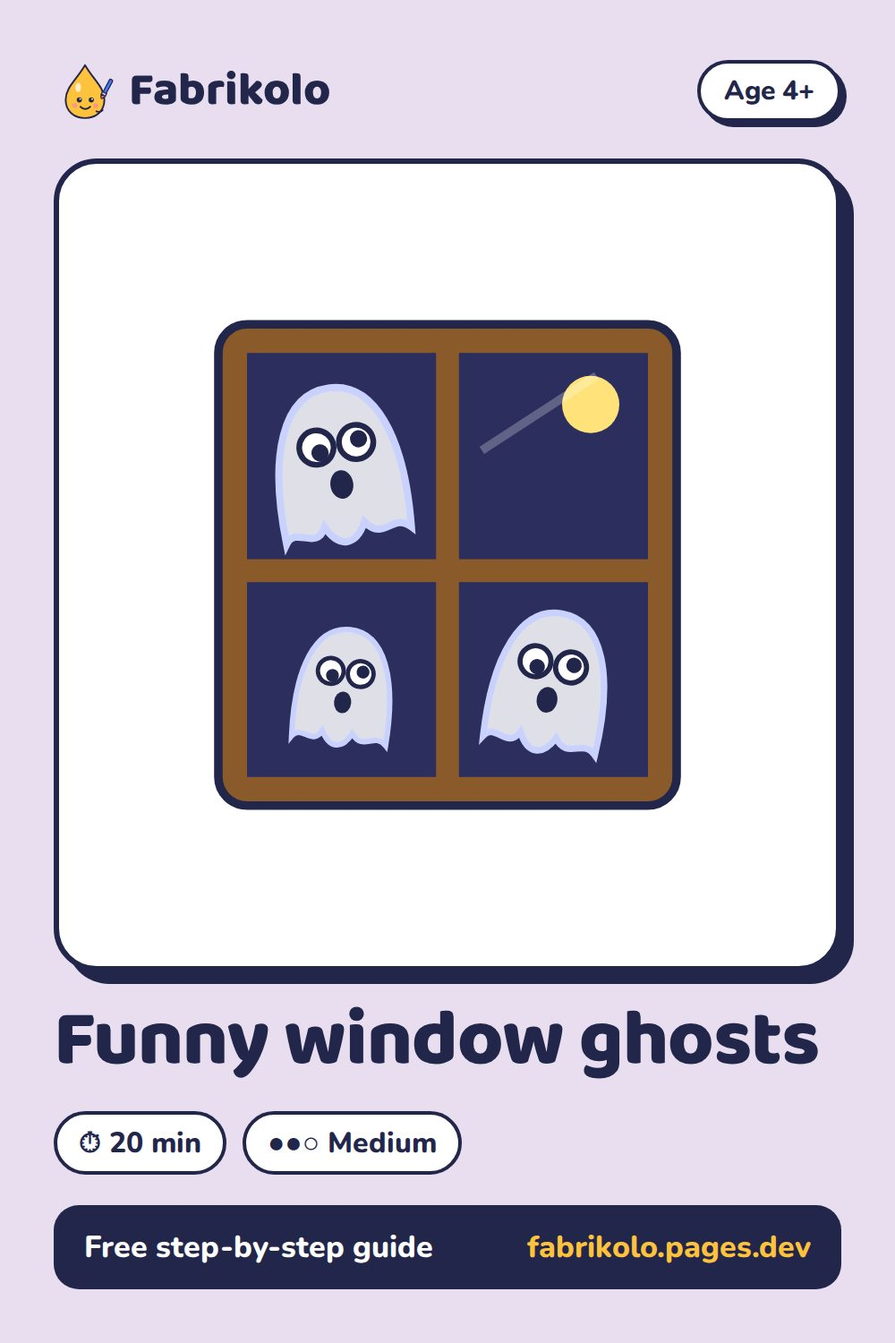
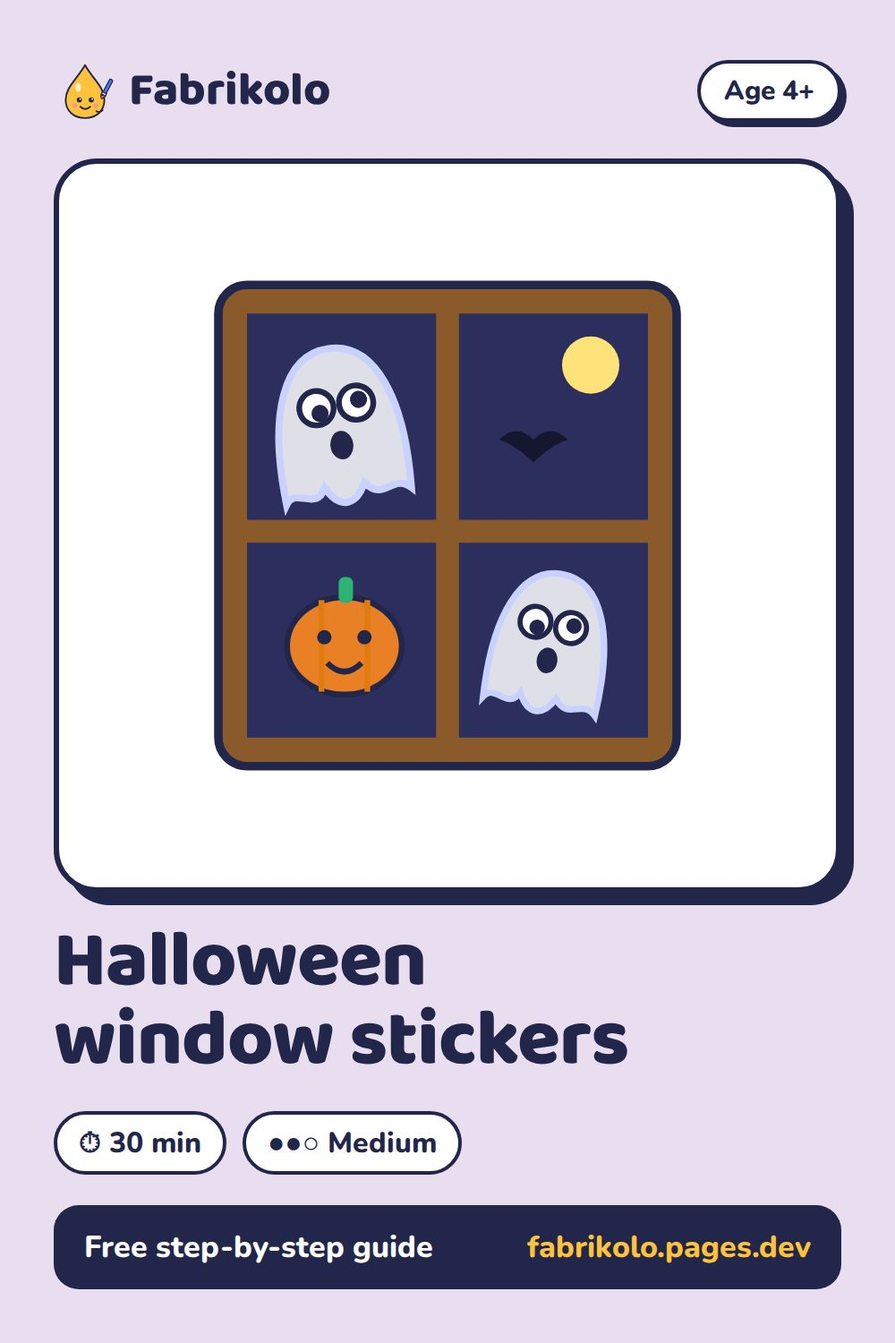
Stickers d'Halloween : épisodes 2 et 3 (citrouilles, chat, chauves-souris, lune)
Claude-Session: https://claude.ai/code/session_01FnzamGF3ebL9wXfJQsgHdc

Changed region(s): [[0.217, 0.184, 0.775, 0.6133], [0.062, 0.644, 0.961, 0.828], [0.124, 0.828, 0.155, 0.8587]]

diff --git a/src/app.html b/src/app.html
@@ -2635,22 +2635,23 @@ const ACTIVITIES = [
   {
     id: "fantomes-fenetre",
     nouveau: "2026-10-02",
-    titre: "Fantômes rigolos pour la fenêtre",
-    accroche: "De la colle blanche, une goutte de liquide vaisselle et deux yeux mobiles : des petits fantômes qui se collent sur la vitre et se décollent sans laisser de trace.",
+    titre: "Stickers d'Halloween pour la fenêtre",
+    accroche: "De la colle blanche, du liquide vaisselle et un peu de couleur : fantômes, citrouilles rigolotes, chat de sorcière et chauves-souris qui se collent sur la vitre et se décollent sans laisser de trace.",
     saisons: ["Automne"],
     categorie: "Bricolage",
     couleur: "var(--lilac)",
     age: "Dès 4 ans avec un adulte, seul dès 7 ans",
     ageMin: 4,
-    faits: [["Préparation", "10 min"], ["Activité", "20 min"], ["Séchage", "24 à 48 h"], ["Coût", "Placards"]],
+    faits: [["Préparation", "10 min"], ["Activité", "30 min"], ["Séchage", "24 à 48 h"], ["Coût", "Placards"]],
     materiel: [
       ["Colle blanche vinylique liquide (colle scolaire)", "Pas de colle en bâton."],
       ["Liquide vaisselle", "Transparent de préférence."],
-      ["Un peu de peinture blanche ou de colorant", "Facultatif : la colle sèche blanche translucide, ce qui fait déjà très fantôme."],
+      ["Colorant alimentaire ou peinture : blanc, orange, noir, jaune, vert, violet", "Pour les fantômes, la colle seule suffit : elle sèche blanche translucide."],
       ["Des yeux mobiles", "Ou un feutre noir permanent, utilisé par l'adulte."],
       ["Une pochette plastique transparente", "C'est le support de séchage."],
-      ["Des modèles de fantômes dessinés sur papier", "À glisser dans la pochette pour suivre le contour."],
-      ["Un pinceau ou une petite cuillère", ""]
+      ["Des modèles dessinés sur papier", "Fantômes, citrouilles, chat avec chapeau, chauve-souris, lune : à glisser dans la pochette pour suivre le contour."],
+      ["Un pinceau ou une petite cuillère", ""],
+      ["Un feutre noir permanent, pour l'adulte", "Pour les visages des citrouilles."]
     ],
     melange: { base: [["Colle", 2, "c. à café"], ["Liquide vaisselle", 1, "c. à café"], ["Colorant", 2, "gouttes"]], repos: 180 },
     sechage: [24, 48],
@@ -2662,21 +2663,35 @@ const ACTIVITIES = [
         "Posez les yeux mobiles tout de suite, pendant que la colle est encore humide : ils resteront pris dedans.",
         "Laissez sécher à plat, loin du chauffage, 24 à 48 h."
       ]},
+      { titre: "Niveau 2 · des citrouilles rigolotes", etapes: [
+        "Faites un pot de mélange orange et un tout petit pot de vert pour la tige.",
+        "Remplissez les citrouilles en orange, puis ajoutez la tige en vert, sans la coller au orange encore mouillé.",
+        "Après séchage, l'adulte dessine au feutre noir une expression différente sur chaque citrouille : rieuse, surprise, qui tire la langue."
+      ]},
+      { titre: "Niveau 3 · chat, chauves-souris et lune", etapes: [
+        "Préparez un pot par couleur : noir pour le chat et les chauves-souris, jaune pour la lune, violet ou orange pour le chapeau.",
+        "Peignez d'abord une seule couleur sur chaque motif, et laissez-la sécher au moins 2 heures.",
+        "Ajoutez ensuite la couleur voisine juste contre la première : si elle est encore humide, les deux se mélangent.",
+        "Pour les yeux du chat, une goutte de jaune posée sur le noir déjà sec."
+      ]},
       { titre: "Séance 2 · décoller et coller", etapes: [
         "Quand les fantômes sont transparents au centre et ne collent plus au doigt, décollez-les doucement de la pochette.",
         "Appuyez-les sur une vitre propre : ils tiennent tout seuls.",
         "Pour les ranger après Halloween, recollez-les sur la pochette."
       ]}
     ],
-    variante: "Même recette avec de l'orange pour des citrouilles ou du vert pour des monstres. Les feuilles d'automne de la fiche « Vitraux repositionnables » utilisent exactement le même mélange.",
+    variante: "Commencez par les fantômes (une seule couleur), puis les citrouilles, et gardez le niveau 3 pour les plus grands. Les feuilles d'automne de la fiche « Vitraux repositionnables » utilisent exactement le même mélange.",
     depannage: [
       ["Le fantôme se déchire au décollage", "Couche trop fine ou pas sèche", "Attendre encore, ou repeindre une couche par-dessus."],
       ["Les yeux tombent", "Posés sur une colle déjà sèche", "Un point de colle sous chaque œil."],
-      ["Il ne tient pas sur la vitre", "Vitre sale ou froide", "Nettoyer la vitre et appuyer bien à plat."]
+      ["Il ne tient pas sur la vitre", "Vitre sale ou froide", "Nettoyer la vitre et appuyer bien à plat."],
+      ["Les couleurs ont coulé l'une dans l'autre", "Deuxième couleur posée trop tôt", "Laisser sécher chaque couleur avant de peindre la voisine."]
     ],
     securite: ["La colle scolaire n'est pas dangereuse, mais ne se mange pas.", "Les yeux mobiles sont de petites pièces : à garder loin des moins de 3 ans."],
     sources: [
-      ["Vidéo d'origine : lecoq.family (Instagram)", "https://www.instagram.com/reel/DdmPOsAIcuZ/"]
+      ["Vidéo d'origine, épisode 1 (fantômes) : lecoq.family (Instagram)", "https://www.instagram.com/reel/DdmPOsAIcuZ/"],
+      ["Épisode 2 (citrouilles) : lecoq.family (Instagram)", "https://www.instagram.com/reel/Ddt8yaBIGlB/"],
+      ["Épisode 3 (chat, chauves-souris, lune) : lecoq.family (Instagram)", "https://www.instagram.com/reel/DdwhlmWI6qV/"]
     ]
   }
 ];
@@ -3206,7 +3221,7 @@ Object.assign(META, { "main-zombie": { niveau: 1, skills: ["Sciences : acide et 
 /* ---------- Illustration : fantômes pour la fenêtre (dessin original) ---------- */
 function windowGhostsSVG() {
   const g = (x, y, s, r) => `<g transform="translate(${x} ${y}) rotate(${r}) scale(${s})"><path d="M-22 26 C-24 -6 -16 -26 0 -26 C16 -26 24 -6 22 26 C16 20 12 30 6 22 C2 30 -4 30 -8 22 C-12 30 -18 20 -22 26 Z" fill="#FFFFFF" fill-opacity=".85" stroke="#C9D2FF" stroke-width="2.5"/><circle cx="-7" cy="-6" r="6" fill="#fff" stroke="${INK}" stroke-width="2"/><circle cx="7" cy="-6" r="6" fill="#fff" stroke="${INK}" stroke-width="2"/><circle cx="-6" cy="-4" r="3" fill="${INK}"/><circle cx="8" cy="-7" r="3" fill="${INK}"/><ellipse cx="0" cy="8" rx="4" ry="5" fill="${INK}"/></g>`;
-  return svgWrap("Fenêtre décorée de petits fantômes en colle aux yeux mobiles", `<rect x="20" y="16" width="160" height="168" rx="10" fill="#8B5A2B" stroke="${INK}" stroke-width="3"/><rect x="30" y="26" width="66" height="72" fill="#2C2F5E"/><rect x="104" y="26" width="66" height="72" fill="#2C2F5E"/><rect x="30" y="106" width="66" height="68" fill="#2C2F5E"/><rect x="104" y="106" width="66" height="68" fill="#2C2F5E"/><circle cx="150" cy="44" r="10" fill="#FFE27A"/>${g(62, 64, 1, -8)}${g(136, 140, .9, 10)}${g(64, 142, .75, 6)}<path d="M112 60 l40 -26" stroke="#fff" stroke-width="3" opacity=".25"/>`);
+  return svgWrap("Fenêtre décorée de stickers en colle : fantômes, citrouille et chauve-souris", `<rect x="20" y="16" width="160" height="168" rx="10" fill="#8B5A2B" stroke="${INK}" stroke-width="3"/><rect x="30" y="26" width="66" height="72" fill="#2C2F5E"/><rect x="104" y="26" width="66" height="72" fill="#2C2F5E"/><rect x="30" y="106" width="66" height="68" fill="#2C2F5E"/><rect x="104" y="106" width="66" height="68" fill="#2C2F5E"/><circle cx="150" cy="44" r="10" fill="#FFE27A"/>${g(62, 64, 1, -8)}${g(136, 140, .9, 10)}<g transform="translate(64 142)"><ellipse rx="20" ry="17" fill="#FF8A1F" fill-opacity=".9" stroke="${INK}" stroke-width="2"/><path d="M-8 -16 v32 M8 -16 v32" stroke="#E07B10" stroke-width="2"/><rect x="-2" y="-24" width="5" height="9" rx="2" fill="#2FB373"/><circle cx="-7" cy="-3" r="2.5" fill="${INK}"/><circle cx="7" cy="-3" r="2.5" fill="${INK}"/><path d="M-6 6 q6 6 12 0" fill="none" stroke="${INK}" stroke-width="2"/></g><path d="M118 70 q6 -6 12 0 q6 -6 12 0 q-6 2 -12 8 q-6 -6 -12 -8 Z" fill="#15172E"/>`);
 }
 Object.assign(ART, { "fantomes-fenetre": windowGhostsSVG });
 Object.assign(META, { "fantomes-fenetre": { niveau: 2, skills: ["Doser", "Patience", "Précision"] } });
@@ -5690,49 +5705,49 @@ Object.assign(TRAD.es, {
 });
 Object.assign(TRAD.en, {
 "fantomes-fenetre": {
-  titre: "Funny window ghosts",
-  accroche: "White glue, a drop of washing-up liquid and a pair of googly eyes: little ghosts that cling to the window and peel off again without leaving a mark.",
+  titre: "Halloween window stickers",
+  accroche: "White glue, washing-up liquid and a splash of colour: ghosts, funny pumpkins, a witch's cat and bats that cling to the window and peel off again without leaving a mark.",
   age: "age 4+ with a grown-up, on their own from age 7",
-  materiel: [["Liquid white PVA glue (school glue)", "Not a glue stick."], ["Washing-up liquid", "Clear if possible."], ["A little white paint or food colouring", "Optional: the glue dries a translucent white, which already looks very ghostly."], ["Googly eyes", "Or a black permanent marker, used by the grown-up."], ["A clear plastic punched pocket", "This is what they dry on."], ["Ghost templates drawn on paper", "Slide them into the pocket to trace round the outline."], ["A paintbrush or a teaspoon", ""]],
-  seances: [{ titre: "Session 1 · paint the ghosts", etapes: ["Draw a few simple ghosts (round head, wavy bottom, 6 to 8 cm) and slide the sheet into the plastic pocket.", "Mix 2 parts glue to 1 part washing-up liquid, plus a little white if you want nice solid ghosts. Leave it to rest for 3 minutes.", "With the brush, go round the outline of the ghost on the pocket first, then fill in the inside with a thick, even layer.", "Put the googly eyes on straight away, while the glue is still wet: they'll stay stuck in it.", "Leave to dry flat, away from the radiator, for 24 to 48 hours."] }, { titre: "Session 2 · peel and stick", etapes: ["When the ghosts are see-through in the middle and no longer sticky to the touch, peel them gently off the pocket.", "Press them onto a clean window: they stay up all by themselves.", "To put them away after Halloween, stick them back onto the pocket."] }],
-  variante: "Same recipe with orange for pumpkins or green for monsters. The autumn leaves in the “Peel-off window stickers” activity use exactly the same mixture.",
-  depannage: [["The ghost tears when you peel it off", "Layer too thin or not dry", "Wait a bit longer, or paint another layer on top."], ["The eyes fall off", "Put on when the glue was already dry", "A dot of glue under each eye."], ["It won't stay on the window", "Window dirty or cold", "Clean the window and press it down nice and flat."]],
+  materiel: [["Liquid white PVA glue (school glue)", "Not a glue stick."], ["Washing-up liquid", "Clear if possible."], ["Food colouring or paint: white, orange, black, yellow, green, purple", "For the ghosts, glue on its own is enough: it dries a translucent white."], ["Googly eyes", "Or a black permanent marker, used by the grown-up."], ["A clear plastic punched pocket", "This is what they dry on."], ["Templates drawn on paper", "Ghosts, pumpkins, a cat in a hat, a bat, a moon: slide them into the pocket to trace round the outline."], ["A paintbrush or a teaspoon", ""], ["A black permanent marker, for the grown-up", "For the pumpkins' faces."]],
+  seances: [{ titre: "Session 1 · paint the ghosts", etapes: ["Draw a few simple ghosts (round head, wavy bottom, 6 to 8 cm) and slide the sheet into the plastic pocket.", "Mix 2 parts glue to 1 part washing-up liquid, plus a little white if you want nice solid ghosts. Leave it to rest for 3 minutes.", "With the brush, go round the outline of the ghost on the pocket first, then fill in the inside with a thick, even layer.", "Put the googly eyes on straight away, while the glue is still wet: they'll stay stuck in it.", "Leave to dry flat, away from the radiator, for 24 to 48 hours."] }, { titre: "Level 2 · funny pumpkins", etapes: ["Make a pot of orange mixture and a tiny pot of green for the stalks.", "Fill in the pumpkins in orange, then add the stalk in green, without letting it touch the orange while it's still wet.", "Once they're dry, the grown-up draws a different face on each pumpkin with the black marker: laughing, surprised, sticking its tongue out."] }, { titre: "Level 3 · cat, bats and moon", etapes: ["Get a pot ready for each colour: black for the cat and the bats, yellow for the moon, purple or orange for the hat.", "Paint just one colour on each shape first, and leave it to dry for at least 2 hours.", "Then add the next colour right up against the first: if it's still wet, the two will run together.", "For the cat's eyes, a drop of yellow on top of the black once it's dry."] }, { titre: "Session 2 · peel and stick", etapes: ["When the ghosts are see-through in the middle and no longer sticky to the touch, peel them gently off the pocket.", "Press them onto a clean window: they stay up all by themselves.", "To put them away after Halloween, stick them back onto the pocket."] }],
+  variante: "Start with the ghosts (just one colour), then the pumpkins, and save level 3 for the older ones. The autumn leaves in the “Peel-off window stickers” activity use exactly the same mixture.",
+  depannage: [["The ghost tears when you peel it off", "Layer too thin or not dry", "Wait a bit longer, or paint another layer on top."], ["The eyes fall off", "Put on when the glue was already dry", "A dot of glue under each eye."], ["It won't stay on the window", "Window dirty or cold", "Clean the window and press it down nice and flat."], ["The colours have run into each other", "Second colour added too soon", "Let each colour dry before painting the one next to it."]],
   securite: ["School glue isn't dangerous, but it's not for eating.", "Googly eyes are small parts: keep them away from children under 3."]
 }
 });
 Object.assign(TRAD.de, {
 "fantomes-fenetre": {
-  titre: "Lustige Gespenster fürs Fenster",
-  accroche: "Weißer Bastelkleber, ein Tropfen Spülmittel und zwei Wackelaugen: kleine Gespenster, die an der Scheibe haften und sich spurlos wieder abziehen lassen.",
+  titre: "Halloween-Fensterbilder",
+  accroche: "Weißer Bastelkleber, Spülmittel und ein bisschen Farbe: Gespenster, lustige Kürbisse, eine Hexenkatze und Fledermäuse, die an der Scheibe haften und sich spurlos wieder abziehen lassen.",
   age: "ab 4 Jahren mit einem Erwachsenen, allein ab 7 Jahren",
-  materiel: [["Flüssiger weißer Bastelkleber (Schulkleber)", "Kein Klebestift."], ["Spülmittel", "Am besten farblos."], ["Etwas weiße Farbe oder Lebensmittelfarbe", "Freiwillig: Der Kleber trocknet weiß durchscheinend, das sieht schon sehr gespenstisch aus."], ["Wackelaugen", "Oder ein schwarzer Permanentmarker, den der Erwachsene benutzt."], ["Eine durchsichtige Klarsichthülle", "Darauf trocknen die Gespenster."], ["Auf Papier gezeichnete Gespenstervorlagen", "In die Hülle schieben, um den Umriss nachzufahren."], ["Ein Pinsel oder ein Teelöffel", ""]],
-  seances: [{ titre: "Teil 1 · die Gespenster malen", etapes: ["Ein paar einfache Gespenster zeichnen (runder Kopf, gewellter unterer Rand, 6 bis 8 cm) und das Blatt in die Klarsichthülle schieben.", "2 Teile Kleber mit 1 Teil Spülmittel mischen, dazu etwas Weiß, wenn die Gespenster schön deckend werden sollen. 3 Minuten ruhen lassen.", "Mit dem Pinsel zuerst den Umriss des Gespensts auf der Hülle nachmalen, dann die Fläche dick und gleichmäßig ausfüllen.", "Die Wackelaugen sofort aufsetzen, solange der Kleber noch feucht ist: So bleiben sie darin haften.", "Flach liegend, nicht in der Nähe der Heizung, 24 bis 48 Stunden trocknen lassen."] }, { titre: "Teil 2 · abziehen und ankleben", etapes: ["Wenn die Gespenster in der Mitte durchsichtig sind und nicht mehr am Finger kleben, vorsichtig von der Hülle abziehen.", "Auf eine saubere Fensterscheibe drücken: Sie halten ganz von allein.", "Zum Aufbewahren nach Halloween einfach wieder auf die Hülle kleben."] }],
-  variante: "Dasselbe Rezept mit Orange für Kürbisse oder mit Grün für Monster. Die Herbstblätter aus der Anleitung „Fensterbilder zum Abziehen“ verwenden genau dieselbe Mischung.",
-  depannage: [["Das Gespenst reißt beim Abziehen", "Schicht zu dünn oder nicht trocken", "Noch warten oder eine weitere Schicht darübermalen."], ["Die Augen fallen ab", "Auf schon getrockneten Kleber gesetzt", "Ein Klebepunkt unter jedes Auge."], ["Es hält nicht an der Scheibe", "Scheibe schmutzig oder kalt", "Die Scheibe putzen und das Gespenst gut flach andrücken."]],
+  materiel: [["Flüssiger weißer Bastelkleber (Schulkleber)", "Kein Klebestift."], ["Spülmittel", "Am besten farblos."], ["Lebensmittelfarbe oder Farbe: Weiß, Orange, Schwarz, Gelb, Grün, Lila", "Für die Gespenster reicht der Kleber allein: Er trocknet weiß durchscheinend."], ["Wackelaugen", "Oder ein schwarzer Permanentmarker, den der Erwachsene benutzt."], ["Eine durchsichtige Klarsichthülle", "Darauf trocknen die Motive."], ["Auf Papier gezeichnete Vorlagen", "Gespenster, Kürbisse, Katze mit Hut, Fledermaus, Mond: in die Hülle schieben, um den Umriss nachzufahren."], ["Ein Pinsel oder ein Teelöffel", ""], ["Ein schwarzer Permanentmarker für den Erwachsenen", "Für die Kürbisgesichter."]],
+  seances: [{ titre: "Teil 1 · die Gespenster malen", etapes: ["Ein paar einfache Gespenster zeichnen (runder Kopf, gewellter unterer Rand, 6 bis 8 cm) und das Blatt in die Klarsichthülle schieben.", "2 Teile Kleber mit 1 Teil Spülmittel mischen, dazu etwas Weiß, wenn die Gespenster schön deckend werden sollen. 3 Minuten ruhen lassen.", "Mit dem Pinsel zuerst den Umriss des Gespensts auf der Hülle nachmalen, dann die Fläche dick und gleichmäßig ausfüllen.", "Die Wackelaugen sofort aufsetzen, solange der Kleber noch feucht ist: So bleiben sie darin haften.", "Flach liegend, nicht in der Nähe der Heizung, 24 bis 48 Stunden trocknen lassen."] }, { titre: "Stufe 2 · lustige Kürbisse", etapes: ["Ein Töpfchen orange Mischung anrühren und ein ganz kleines mit Grün für den Stiel.", "Die Kürbisse orange ausmalen, dann den grünen Stiel ergänzen, ohne dass er das noch nasse Orange berührt.", "Nach dem Trocknen malt der Erwachsene mit dem schwarzen Marker jedem Kürbis ein anderes Gesicht: lachend, überrascht, mit herausgestreckter Zunge."] }, { titre: "Stufe 3 · Katze, Fledermäuse und Mond", etapes: ["Für jede Farbe ein Töpfchen vorbereiten: Schwarz für die Katze und die Fledermäuse, Gelb für den Mond, Lila oder Orange für den Hut.", "Zuerst nur eine Farbe auf jedes Motiv malen und mindestens 2 Stunden trocknen lassen.", "Dann die nächste Farbe direkt daneben setzen: Ist die erste noch feucht, laufen die beiden ineinander.", "Für die Katzenaugen einen Tropfen Gelb auf das schon getrocknete Schwarz setzen."] }, { titre: "Teil 2 · abziehen und ankleben", etapes: ["Wenn die Gespenster in der Mitte durchsichtig sind und nicht mehr am Finger kleben, vorsichtig von der Hülle abziehen.", "Auf eine saubere Fensterscheibe drücken: Sie halten ganz von allein.", "Zum Aufbewahren nach Halloween einfach wieder auf die Hülle kleben."] }],
+  variante: "Mit den Gespenstern anfangen (nur eine Farbe), dann die Kürbisse, und Stufe 3 für die Größeren aufheben. Die Herbstblätter aus der Anleitung „Fensterbilder zum Abziehen“ verwenden genau dieselbe Mischung.",
+  depannage: [["Das Gespenst reißt beim Abziehen", "Schicht zu dünn oder nicht trocken", "Noch warten oder eine weitere Schicht darübermalen."], ["Die Augen fallen ab", "Auf schon getrockneten Kleber gesetzt", "Ein Klebepunkt unter jedes Auge."], ["Es hält nicht an der Scheibe", "Scheibe schmutzig oder kalt", "Die Scheibe putzen und das Motiv gut flach andrücken."], ["Die Farben sind ineinander verlaufen", "Zweite Farbe zu früh aufgetragen", "Jede Farbe trocknen lassen, bevor die benachbarte gemalt wird."]],
   securite: ["Schulkleber ist nicht gefährlich, aber nicht zum Essen da.", "Wackelaugen sind Kleinteile: von Kindern unter 3 Jahren fernhalten."]
 }
 });
 Object.assign(TRAD.it, {
 "fantomes-fenetre": {
-  titre: "Fantasmini buffi per la finestra",
-  accroche: "Colla vinilica bianca, una goccia di detersivo per i piatti e due occhietti mobili: piccoli fantasmi che si attaccano al vetro e si staccano senza lasciare traccia.",
+  titre: "Vetrofanie di Halloween",
+  accroche: "Colla vinilica bianca, detersivo per i piatti e un po' di colore: fantasmi, zucche buffe, il gatto della strega e pipistrelli che si attaccano al vetro e si staccano senza lasciare traccia.",
   age: "dai 4 anni con un adulto, da soli dai 7 anni",
-  materiel: [["Colla vinilica bianca liquida (colla scolastica)", "Non la colla stick."], ["Detersivo per i piatti", "Meglio se trasparente."], ["Un po' di tempera bianca o di colorante", "Facoltativo: la colla asciuga bianca e traslucida, che fa già molto fantasma."], ["Occhietti mobili", "Oppure un pennarello nero indelebile, usato dall'adulto."], ["Una busta di plastica trasparente", "È il supporto su cui asciugano."], ["Dei modelli di fantasmi disegnati su carta", "Da infilare nella busta per seguire il contorno."], ["Un pennello o un cucchiaino", ""]],
-  seances: [{ titre: "Prima parte · dipingere i fantasmi", etapes: ["Disegnate qualche fantasma semplice (testa tonda, fondo a onde, 6-8 cm) e infilate il foglio nella busta di plastica.", "Mescolate 2 parti di colla con 1 parte di detersivo, più un po' di bianco se volete fantasmi ben coprenti. Lasciate riposare 3 minuti.", "Con il pennello fate prima il contorno del fantasma sulla busta, poi riempite l'interno con uno strato spesso e uniforme.", "Mettete subito gli occhietti mobili, finché la colla è ancora umida: resteranno incastrati dentro.", "Lasciate asciugare in piano, lontano dal termosifone, per 24-48 ore."] }, { titre: "Seconda parte · staccare e attaccare", etapes: ["Quando i fantasmi sono trasparenti al centro e non si attaccano più alle dita, staccateli delicatamente dalla busta.", "Premeteli su un vetro pulito: restano su da soli.", "Per metterli via dopo Halloween, riattaccateli sulla busta."] }],
-  variante: "Stessa ricetta con l'arancione per le zucche o il verde per i mostri. Le foglie d'autunno della scheda “Vetrofanie staccabili” usano esattamente lo stesso miscuglio.",
-  depannage: [["Il fantasma si strappa quando lo staccate", "Strato troppo sottile o non asciutto", "Aspettate ancora, oppure ridipingete uno strato sopra."], ["Gli occhietti cadono", "Messi su colla già asciutta", "Un puntino di colla sotto ogni occhio."], ["Non sta attaccato al vetro", "Vetro sporco o freddo", "Pulite il vetro e premete bene in piano."]],
+  materiel: [["Colla vinilica bianca liquida (colla scolastica)", "Non la colla stick."], ["Detersivo per i piatti", "Meglio se trasparente."], ["Colorante alimentare o tempera: bianco, arancione, nero, giallo, verde, viola", "Per i fantasmi basta la colla da sola: asciuga bianca e traslucida."], ["Occhietti mobili", "Oppure un pennarello nero indelebile, usato dall'adulto."], ["Una busta di plastica trasparente", "È il supporto su cui asciugano."], ["Dei modelli disegnati su carta", "Fantasmi, zucche, gatto con il cappello, pipistrello, luna: da infilare nella busta per seguire il contorno."], ["Un pennello o un cucchiaino", ""], ["Un pennarello nero indelebile, per l'adulto", "Per le facce delle zucche."]],
+  seances: [{ titre: "Prima parte · dipingere i fantasmi", etapes: ["Disegnate qualche fantasma semplice (testa tonda, fondo a onde, 6-8 cm) e infilate il foglio nella busta di plastica.", "Mescolate 2 parti di colla con 1 parte di detersivo, più un po' di bianco se volete fantasmi ben coprenti. Lasciate riposare 3 minuti.", "Con il pennello fate prima il contorno del fantasma sulla busta, poi riempite l'interno con uno strato spesso e uniforme.", "Mettete subito gli occhietti mobili, finché la colla è ancora umida: resteranno incastrati dentro.", "Lasciate asciugare in piano, lontano dal termosifone, per 24-48 ore."] }, { titre: "Livello 2 · zucche buffe", etapes: ["Preparate un vasetto di miscuglio arancione e un vasetto piccolissimo di verde per il picciolo.", "Riempite le zucche di arancione, poi aggiungete il picciolo verde, senza farlo toccare l'arancione ancora bagnato.", "Dopo l'asciugatura, l'adulto disegna con il pennarello nero un'espressione diversa su ogni zucca: sorridente, sorpresa, con la linguaccia."] }, { titre: "Livello 3 · gatto, pipistrelli e luna", etapes: ["Preparate un vasetto per colore: nero per il gatto e i pipistrelli, giallo per la luna, viola o arancione per il cappello.", "Dipingete prima un solo colore su ogni sagoma e lasciatelo asciugare almeno 2 ore.", "Poi aggiungete il colore vicino proprio accanto al primo: se è ancora umido, i due si mescolano.", "Per gli occhi del gatto, una goccia di giallo sul nero già asciutto."] }, { titre: "Seconda parte · staccare e attaccare", etapes: ["Quando i fantasmi sono trasparenti al centro e non si attaccano più alle dita, staccateli delicatamente dalla busta.", "Premeteli su un vetro pulito: restano su da soli.", "Per metterli via dopo Halloween, riattaccateli sulla busta."] }],
+  variante: "Cominciate dai fantasmi (un solo colore), poi le zucche, e tenete il livello 3 per i più grandi. Le foglie d'autunno della scheda “Vetrofanie staccabili” usano esattamente lo stesso miscuglio.",
+  depannage: [["Il fantasma si strappa quando lo staccate", "Strato troppo sottile o non asciutto", "Aspettate ancora, oppure ridipingete uno strato sopra."], ["Gli occhietti cadono", "Messi su colla già asciutta", "Un puntino di colla sotto ogni occhio."], ["Non sta attaccato al vetro", "Vetro sporco o freddo", "Pulite il vetro e premete bene in piano."], ["I colori sono colati l'uno nell'altro", "Secondo colore messo troppo presto", "Lasciate asciugare ogni colore prima di dipingere quello accanto."]],
   securite: ["La colla scolastica non è pericolosa, ma non si mangia.", "Gli occhietti mobili sono pezzi piccoli: da tenere lontano dai bambini sotto i 3 anni."]
 }
 });
 Object.assign(TRAD.es, {
 "fantomes-fenetre": {
-  titre: "Fantasmas divertidos para la ventana",
-  accroche: "Cola blanca, una gota de lavavajillas y dos ojos móviles: fantasmitas que se pegan al cristal y se despegan sin dejar rastro.",
+  titre: "Pegatinas de Halloween para la ventana",
+  accroche: "Cola blanca, lavavajillas y un poco de color: fantasmas, calabazas divertidas, el gato de la bruja y murciélagos que se pegan al cristal y se despegan sin dejar rastro.",
   age: "a partir de 4 años con un adulto, solos a partir de 7 años",
-  materiel: [["Cola blanca líquida (cola escolar)", "Nada de pegamento en barra."], ["Lavavajillas", "Mejor si es transparente."], ["Un poco de pintura blanca o de colorante", "Opcional: la cola se seca de un blanco translúcido, que ya parece muy de fantasma."], ["Ojos móviles", "O un rotulador negro permanente, que usa el adulto."], ["Una funda de plástico transparente", "Es donde se secan."], ["Unos modelos de fantasmas dibujados en papel", "Para meterlos en la funda y seguir el contorno."], ["Un pincel o una cucharilla", ""]],
-  seances: [{ titre: "Sesión 1 · pintar los fantasmas", etapes: ["Dibujad algunos fantasmas sencillos (cabeza redonda, parte de abajo ondulada, de 6 a 8 cm) y meted la hoja en la funda de plástico.", "Mezclad 2 partes de cola con 1 parte de lavavajillas, y un poco de blanco si queréis fantasmas bien opacos. Dejad reposar 3 minutos.", "Con el pincel, haced primero el contorno del fantasma sobre la funda y luego rellenad el interior con una capa gruesa y uniforme.", "Poned los ojos móviles enseguida, mientras la cola sigue húmeda: se quedarán atrapados dentro.", "Dejad secar en plano, lejos de la calefacción, de 24 a 48 horas."] }, { titre: "Sesión 2 · despegar y pegar", etapes: ["Cuando los fantasmas estén transparentes en el centro y ya no se peguen al dedo, despegadlos con cuidado de la funda.", "Apretadlos contra un cristal limpio: se sujetan solos.", "Para guardarlos después de Halloween, volved a pegarlos en la funda."] }],
-  variante: "La misma receta con naranja para hacer calabazas o con verde para monstruos. Las hojas de otoño de la ficha «Vidrieras despegables» usan exactamente la misma mezcla.",
-  depannage: [["El fantasma se rompe al despegarlo", "Capa demasiado fina o sin secar", "Esperar más, o pintar otra capa por encima."], ["Los ojos se caen", "Puestos sobre cola ya seca", "Un punto de cola debajo de cada ojo."], ["No se sujeta en el cristal", "Cristal sucio o frío", "Limpiar el cristal y apretar bien en plano."]],
+  materiel: [["Cola blanca líquida (cola escolar)", "Nada de pegamento en barra."], ["Lavavajillas", "Mejor si es transparente."], ["Colorante alimentario o pintura: blanco, naranja, negro, amarillo, verde, morado", "Para los fantasmas basta con la cola sola: se seca de un blanco translúcido."], ["Ojos móviles", "O un rotulador negro permanente, que usa el adulto."], ["Una funda de plástico transparente", "Es donde se secan."], ["Unos modelos dibujados en papel", "Fantasmas, calabazas, gato con sombrero, murciélago, luna: para meterlos en la funda y seguir el contorno."], ["Un pincel o una cucharilla", ""], ["Un rotulador negro permanente, para el adulto", "Para las caras de las calabazas."]],
+  seances: [{ titre: "Sesión 1 · pintar los fantasmas", etapes: ["Dibujad algunos fantasmas sencillos (cabeza redonda, parte de abajo ondulada, de 6 a 8 cm) y meted la hoja en la funda de plástico.", "Mezclad 2 partes de cola con 1 parte de lavavajillas, y un poco de blanco si queréis fantasmas bien opacos. Dejad reposar 3 minutos.", "Con el pincel, haced primero el contorno del fantasma sobre la funda y luego rellenad el interior con una capa gruesa y uniforme.", "Poned los ojos móviles enseguida, mientras la cola sigue húmeda: se quedarán atrapados dentro.", "Dejad secar en plano, lejos de la calefacción, de 24 a 48 horas."] }, { titre: "Nivel 2 · calabazas divertidas", etapes: ["Preparad un bote de mezcla naranja y un botecito pequeñísimo de verde para el rabito.", "Rellenad las calabazas de naranja y luego añadid el rabito en verde, sin que toque el naranja todavía mojado.", "Cuando estén secas, el adulto dibuja con el rotulador negro una cara distinta en cada calabaza: riéndose, sorprendida, sacando la lengua."] }, { titre: "Nivel 3 · gato, murciélagos y luna", etapes: ["Preparad un bote por color: negro para el gato y los murciélagos, amarillo para la luna, morado o naranja para el sombrero.", "Pintad primero un solo color en cada figura y dejadlo secar al menos 2 horas.", "Después añadid el color de al lado justo pegado al primero: si todavía está húmedo, los dos se mezclan.", "Para los ojos del gato, una gota de amarillo sobre el negro ya seco."] }, { titre: "Sesión 2 · despegar y pegar", etapes: ["Cuando los fantasmas estén transparentes en el centro y ya no se peguen al dedo, despegadlos con cuidado de la funda.", "Apretadlos contra un cristal limpio: se sujetan solos.", "Para guardarlos después de Halloween, volved a pegarlos en la funda."] }],
+  variante: "Empezad por los fantasmas (un solo color), luego las calabazas, y dejad el nivel 3 para los mayores. Las hojas de otoño de la ficha «Vidrieras despegables» usan exactamente la misma mezcla.",
+  depannage: [["El fantasma se rompe al despegarlo", "Capa demasiado fina o sin secar", "Esperar más, o pintar otra capa por encima."], ["Los ojos se caen", "Puestos sobre cola ya seca", "Un punto de cola debajo de cada ojo."], ["No se sujeta en el cristal", "Cristal sucio o frío", "Limpiar el cristal y apretar bien en plano."], ["Los colores se han mezclado", "Segundo color puesto demasiado pronto", "Dejar secar cada color antes de pintar el de al lado."]],
   securite: ["La cola escolar no es peligrosa, pero no se come.", "Los ojos móviles son piezas pequeñas: mantenedlos lejos de los menores de 3 años."]
 }
 });
